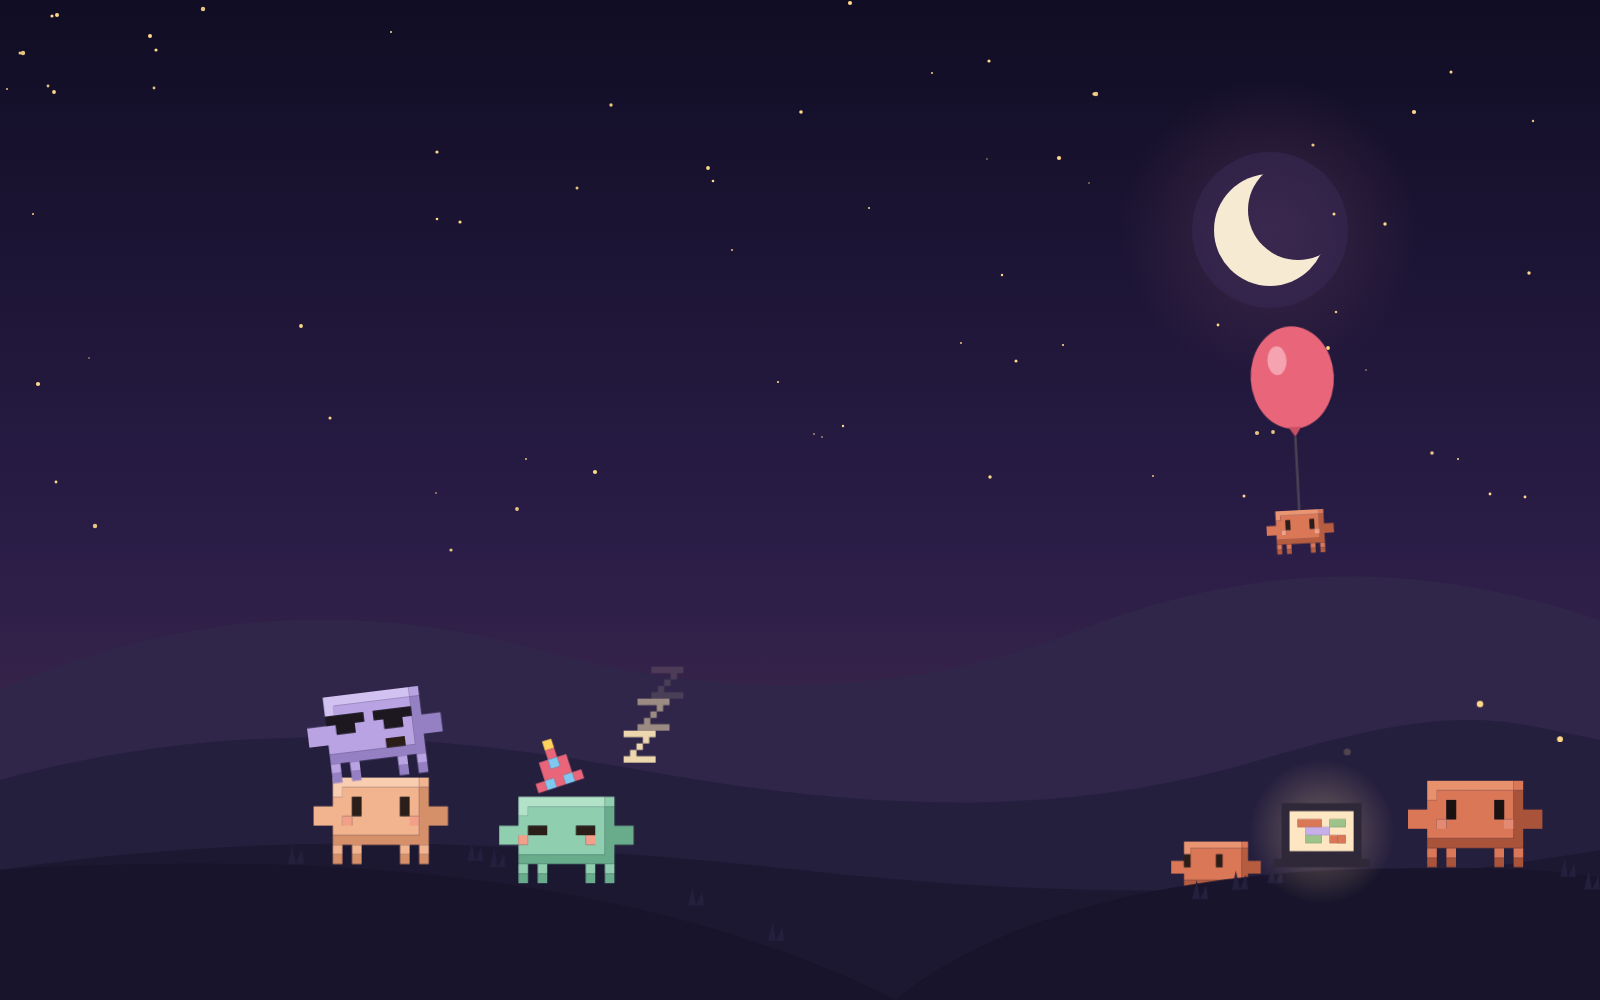
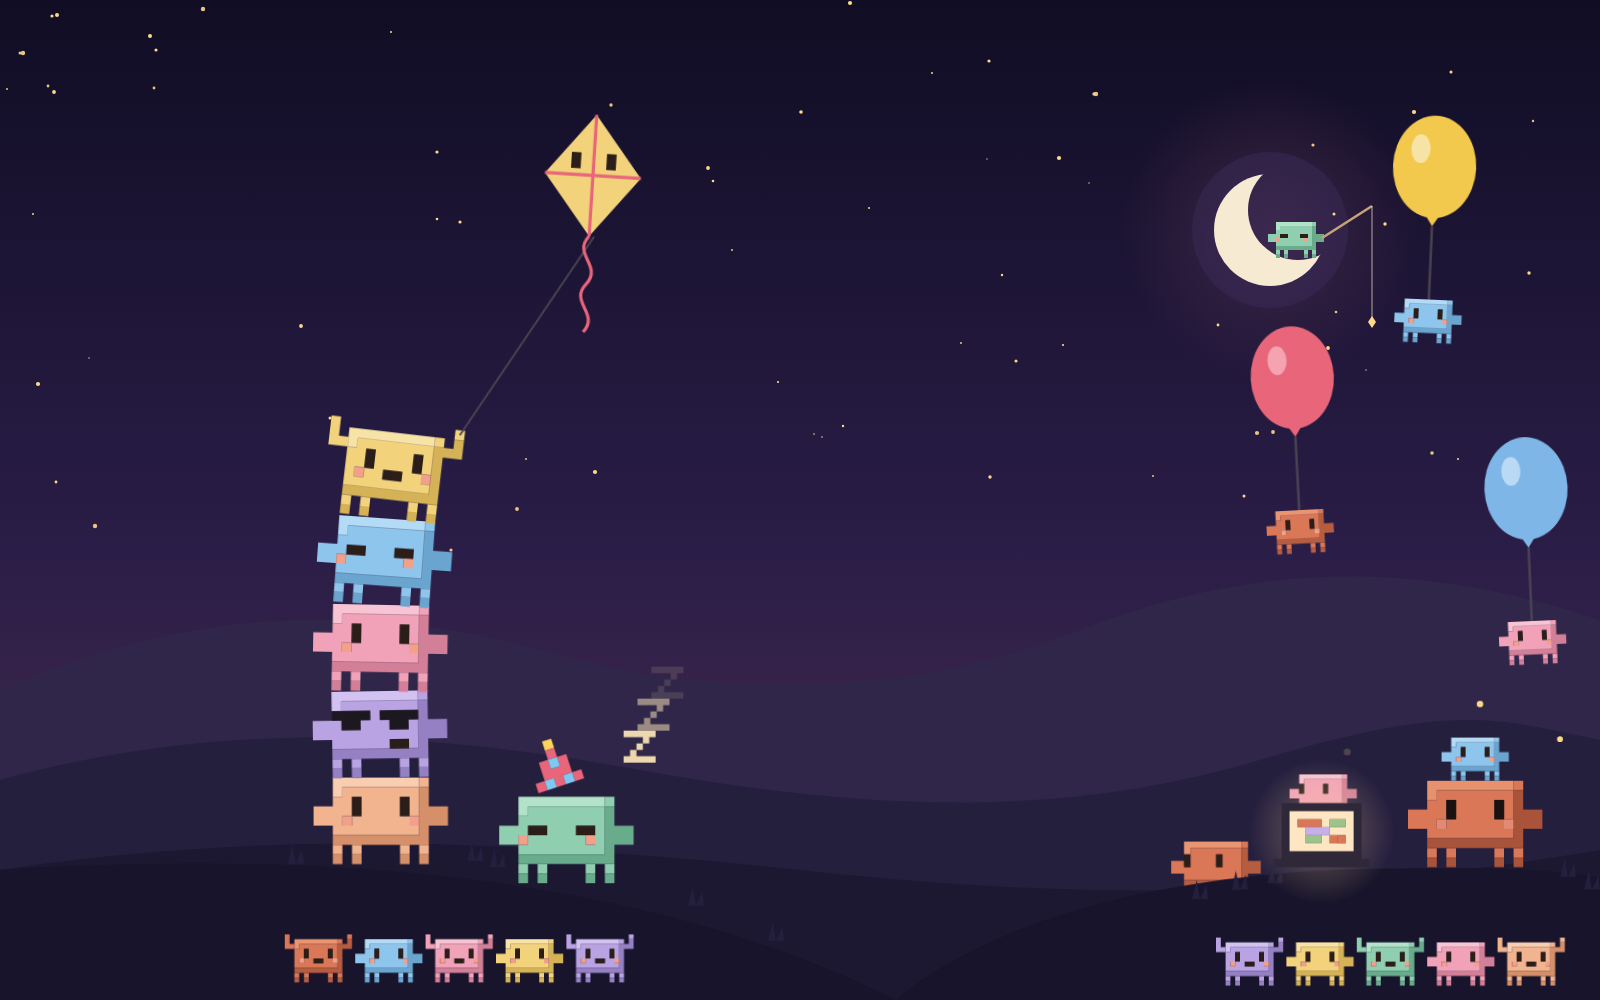
Pixel meadow 0.4.0: a bajillion critters
A five-high wobbling critter tower flying a kite, cheering crowds on
both hills, cloud riders, three balloon riders, a critter on the sun
that fishes off the moon at night, a baby on the main critter's head
and one peeking over the laptop. Sprites merge colour runs to keep the
scene small (about 43k characters).

diff --git a/themes/alif-pixel-meadow/hooks/scene.js b/themes/alif-pixel-meadow/hooks/scene.js
@@ -1,4 +1,5 @@
-// A soft meadow behind the chat, with a little pixel-art Claude critter and its laptop in the bottom-right corner.
+// A soft meadow behind the chat, crowded with goofy pixel critters: one at a laptop, a wobbling tower flying a kite,
+// cheering crowds, cloud riders, balloon riders, a gopher, a critter on the sun (fishing from the moon at night).
 // One SVG serves both modes: colours are classes, and a prefers-color-scheme rule swaps them for the night palette.
 // The ground fills any window (slice); the critter sits in its own nested svg pinned to the bottom-right (meet),
 // so it stays in view on any window shape, clear of the words in the middle.
@@ -66,7 +67,22 @@ const COATS = {
   mint: { O: '#8fcfb0', S: '#68ac8c', H: '#b2e3c9' },
   peach: { O: '#f2b38f', S: '#d58f69', H: '#f9cdb0' },
   orange: { O: '#d97757', S: '#b65d40', H: '#ea9572' },
+  pink: { O: '#f2a2b8', S: '#d27f97', H: '#f8c3d2' },
+  sky: { O: '#8ec5ec', S: '#6aa5cf', H: '#b3dbf5' },
+  butter: { O: '#f2d27a', S: '#d4b255', H: '#f8e3a6' },
 }
+const WAVE = [ // arms up, mouth open
+  'O............O',
+  'O.HHHHHHHHHO.S',
+  'OOHOOOOOOOOSSS',
+  '..OOEOOOOEOS..',
+  '..OOEOOOOEOS..',
+  '..OPOOEEOOPS..',
+  '..OOOOOOOOOS..',
+  '..SSSSSSSSSS..',
+  '..O.O....O.O..',
+  '..S.S....S.S..',
+]
 const DERP = [ // googly eyes and a tongue out
   '..HHHHHHHHHO..',
   '..HOOOOOOOOS..',
@@ -131,11 +147,16 @@ const ZED = ['ZZZZZ', '...Z.', '..Z..', '.Z...', 'ZZZZZ']
 
 function sprite(rows, ox, oy, size, coat = {}) {
   const map = { ...INK, ...coat }, byFill = {}
-  rows.forEach((row, y) => [...row].forEach((ch, x) => {
-    const f = map[ch]
-    if (!f) return
-    ;(byFill[f] ||= []).push(`M${ox + x * size} ${oy + y * size}h${size}v${size}h-${size}z`)
-  }))
+  // runs of one colour in a row become one rectangle, so a crowd stays small
+  rows.forEach((row, y) => {
+    for (let x = 0; x < row.length;) {
+      const f = map[row[x]]
+      let n = 1
+      while (x + n < row.length && row[x + n] === row[x]) n++
+      if (f) (byFill[f] ||= []).push(`M${ox + x * size} ${oy + y * size}h${n * size}v${size}h-${n * size}z`)
+      x += n
+    }
+  })
   return Object.entries(byFill).map(([f, d]) => `<path fill="${f}" d="${d.join('')}"/>`).join('')
 }
 
@@ -173,6 +194,12 @@ ${rules(DAY)}
 .float{animation:float 8s ease-in-out infinite}
 .dangle{transform-box:fill-box;transform-origin:top center;animation:sway 5s ease-in-out infinite}
 .kick{animation:kick 1.2s ease-in-out infinite}
+.cheer{animation:cheer 1.6s ease-in-out infinite}
+.peek2{animation:peek2 5s ease-in-out infinite}
+@keyframes wob{0%,100%{transform:rotate(-3deg)}50%{transform:rotate(3deg)}}
+@keyframes cheer{0%,60%,100%{transform:translateY(0)}30%{transform:translateY(-12px)}}
+@keyframes peek2{0%,40%,100%{transform:translateY(6px)}55%,85%{transform:translateY(0)}}
+@keyframes bobber{0%,100%{transform:translateY(0)}50%{transform:translateY(6px)}}
 @keyframes hop{0%,30%,100%{transform:translateY(0)}55%{transform:translateY(-26px)}}
 @keyframes squish{0%,100%{transform:scale(1,1)}20%{transform:scale(1.12,.85)}35%{transform:scale(.92,1.1)}70%{transform:scale(1,1)}78%{transform:scale(1.1,.88)}}
 @keyframes wobble{0%,100%{transform:rotate(-7deg)}50%{transform:rotate(7deg)}}
@@ -192,8 +219,44 @@ ${rules(DAY)}
 `
 }
 
-function cloud(x, y, s) {
-  return `<g transform="translate(${x} ${y}) scale(${s})"><path class="cloud" d="M0 40a30 30 0 0 1 30-30a42 42 0 0 1 78-6a32 32 0 0 1 52 22a22 22 0 0 1 4 44H8a20 20 0 0 1-8-30z"/></g>`
+function cloud(x, y, s, rider) {
+  const r = rider ? `<g class="cheer" style="animation-delay:${((x % 7) / 5).toFixed(2)}s">${sprite(rider.pose, 50, -12 - rider.pose.length * 3, 3, COATS[rider.coat])}</g>` : ''
+  return `<g transform="translate(${x} ${y}) scale(${s})">${r}<path class="cloud" d="M0 40a30 30 0 0 1 30-30a42 42 0 0 1 78-6a32 32 0 0 1 52 22a22 22 0 0 1 4 44H8a20 20 0 0 1-8-30z"/></g>`
+}
+
+function balloon(x, y, color, light, coat, delay) {
+  return `<g class="float" style="animation-delay:${delay}s"><g transform="translate(${x} ${y})"><g class="dangle" style="animation-delay:${delay}s">
+    <ellipse cx="0" cy="0" rx="26" ry="32" fill="${color}"/><ellipse cx="-9" cy="-11" rx="6" ry="9" fill="${light}"/>
+    <path d="M-4 31h8l-4 6z" fill="${color}"/><path d="M0 37v46" stroke="#4b4352" stroke-width="1.5" fill="none"/>
+    ${sprite(PLAIN, -21, 83, 3, COATS[coat])}
+  </g></g></g>`
+}
+
+// a row of small critters cheering out of step
+function crowd(x0, feet, coats) {
+  return coats.map((c, i) => {
+    const pose = i % 2 ? PLAIN : WAVE
+    return `<g class="cheer" style="animation-delay:${(i * 0.27).toFixed(2)}s">${sprite(pose, x0 + i * 44, feet - pose.length * 3, 3, COATS[c])}</g>`
+  }).join('')
+}
+
+// critters standing on each other's heads, each one wobbling on the one below; the top one flies a kite with a face
+function tower(x, feet, levels) {
+  let y = feet
+  const parts = levels.map(([pose, coat]) => { const top = y - pose.length * 6, p = { pose, coat, top, feet: y }; y = top; return p })
+  const t = parts[parts.length - 1].top
+  let inner = `<path d="M${x + 81} ${t + 3}L${x + 150} ${t - 130}" stroke="#4b4352" stroke-width="1.2" fill="none"/>
+    <g class="sway" style="animation-duration:4s"><g transform="translate(${x + 150} ${t - 206})">
+      <path d="M0 0l30 38l-30 38l-30-38z" fill="#f2d27a"/><path d="M0 0v76M-30 38h60" stroke="#e8657a" stroke-width="2"/>
+      <rect x="-14" y="24" width="6" height="10" fill="#2b1d18"/><rect x="8" y="24" width="6" height="10" fill="#2b1d18"/>
+      <path d="M0 76c-10 12 10 18 0 30c-10 12 10 18 0 30" stroke="#e8657a" stroke-width="2" fill="none"/>
+    </g></g>`
+  for (let i = parts.length - 1; i >= 0; i--) {
+    const p = parts[i], body = sprite(p.pose, x, p.top, 6, COATS[p.coat])
+    inner = i === 0 ? body + inner
+      : `<g style="transform-origin:${x + 42}px ${p.feet}px;animation:wob ${(2.6 + i * 0.35).toFixed(2)}s ease-in-out infinite;animation-delay:${(-i * 0.6).toFixed(1)}s">${body}${inner}</g>`
+  }
+  return inner
 }
 
 export function buildScene() {
@@ -201,8 +264,8 @@ export function buildScene() {
   // clouds, twice across so the drift loops without a seam
   let big = '', small = ''
   for (const off of [0, 1600]) {
-    big += cloud(140 + off, 120, 1.1) + cloud(1050 + off, 90, 0.9)
-    small += cloud(620 + off, 210, 0.7) + cloud(1400 + off, 290, 0.55)
+    big += cloud(140 + off, 120, 1.1, { pose: WAVE, coat: 'pink' }) + cloud(1050 + off, 90, 0.9, { pose: PLAIN, coat: 'sky' })
+    small += cloud(620 + off, 210, 0.7, { pose: DERP, coat: 'butter' }) + cloud(1400 + off, 290, 0.55, { pose: WAVE, coat: 'mint' })
   }
   let stars = ''
   for (let i = 0; i < 70; i++) {
@@ -223,8 +286,7 @@ export function buildScene() {
 <svg x="0" y="0" width="100%" height="100%" viewBox="0 0 1000 625" preserveAspectRatio="xMinYMax meet" overflow="visible">
   <path class="front" d="M-60 625V548C150 530 380 535 560 625z"/>
   ${leftTufts}
-  <g>${sprite(PLAIN, 196, 486, 6, COATS.peach)}</g>
-  <g class="wobble"><g class="kick">${sprite(SHADES, 196, 432, 6, COATS.lilac)}</g></g>
+  ${tower(196, 540, [[PLAIN, 'peach'], [SHADES, 'lilac'], [PLAIN, 'pink'], [SLEEPY, 'sky'], [WAVE, 'butter']])}
   <g class="day"><g class="hop"><g class="squish">
     ${sprite(DERP, 312, 498, 6, COATS.mint)}
     <g transform="rotate(-18 348 492)">${sprite(HAT, 312, 462, 6)}</g>
@@ -234,6 +296,7 @@ export function buildScene() {
     <g transform="rotate(-18 348 492)">${sprite(HAT, 312, 462, 6)}</g>
     ${zeds}
   </g>
+  ${crowd(178, 614, ['orange', 'sky', 'pink', 'butter', 'lilac'])}
   <g class="day"><g class="flutter"><g transform="translate(296 408)">
     <g class="flap"><path fill="#f6a5c0" d="M0 0c-14-12-22 4-10 10c-12 6-4 18 10 6z"/><path fill="#f6a5c0" d="M0 0c14-12 22 4 10 10c12 6 4 18-10 6z"/><rect x="-1" y="-4" width="2" height="16" fill="#4b4352"/></g>
   </g></g></g>
@@ -242,14 +305,13 @@ export function buildScene() {
   const corner = `
 <svg x="0" y="0" width="100%" height="100%" viewBox="0 0 1000 625" preserveAspectRatio="xMaxYMax meet" overflow="visible">
   <defs><radialGradient id="lamp"><stop class="glow" offset="0" stop-opacity=".35"/><stop class="glow" offset="1" stop-opacity="0"/></radialGradient></defs>
-  <g class="float"><g transform="translate(806 236)"><g class="dangle">
-    <ellipse cx="0" cy="0" rx="26" ry="32" fill="#e8657a"/><ellipse cx="-9" cy="-11" rx="6" ry="9" fill="#f5a3b0"/>
-    <path d="M-4 31h8l-4 6z" fill="#c94f63"/><path d="M0 37v46" stroke="#4b4352" stroke-width="1.5" fill="none"/>
-    ${sprite(PLAIN, -21, 83, 3, COATS.orange)}
-  </g></g></g>
+  ${balloon(806, 236, '#e8657a', '#f5a3b0', 'orange', 0)}
+  ${balloon(905, 120, '#f2c94c', '#f8e3a6', 'sky', -3)}
+  ${balloon(958, 318, '#7fb6e8', '#b9d9f5', 'pink', -5.5)}
   <g class="peek">${sprite(PEEKER, 728, 578, 4, COATS.orange)}</g>
   <path class="front" d="M560 625C620 575 730 545 860 543S990 548 1040 556V625z"/>
   ${tufts}
+  <g class="peek2">${sprite(PEEKER, 806, 478, 3, COATS.pink)}</g>
   <g transform="translate(796 502)">
     <g class="night"><circle cx="30" cy="18" r="46" fill="url(#lamp)"/></g>
     ${pixels(LAPTOP, 0, 0, 5)}
@@ -259,7 +321,9 @@ export function buildScene() {
   <g class="bob">
     ${pixels(CRITTER, cx, cy, P, 'OSHP')}
     <g class="blink">${pixels(CRITTER, cx, cy, P, 'E')}</g>
+    ${sprite(PLAIN, 901, 461, 3, COATS.sky)}
   </g>
+  ${crowd(760, 616, ['lilac', 'butter', 'mint', 'pink', 'peach'])}
   <g class="night">
     <circle class="dot fly" cx="842" cy="470" r="2.2"/>
     <circle class="dot fly fly1" cx="975" cy="462" r="1.8"/>
@@ -283,6 +347,10 @@ export function buildScene() {
   <circle class="sun day" cx="1270" cy="230" r="56"/>
   <circle class="sun night" cx="1270" cy="230" r="56" mask="url(#cres)"/>
   <g class="night">${stars}</g>
+  <g class="day"><g class="kick">${sprite(PLAIN, 1242, 140, 4, COATS.mint)}</g></g>
+  <g class="night">${sprite(SLEEPY, 1268, 222, 4, COATS.mint)}
+    <path d="M1322 238L1372 206" stroke="#c7a27a" stroke-width="2.5"/><path d="M1372 206V318" stroke="#f6ead3" stroke-width="1" opacity=".7"/>
+    <g style="animation:bobber 3s ease-in-out infinite"><path d="M1372 316l4 6l-4 6l-4-6z" fill="#ffd98a"/></g></g>
   <g class="day" opacity=".85"><g class="drift">${big}</g><g class="drift2">${small}</g></g>
   <path class="far" d="M0 690C180 610 360 600 540 650S900 700 1080 630S1420 560 1600 620V1000H0z"/>
   <path class="mid" d="M0 780C220 720 420 730 640 770S1060 820 1260 760S1500 720 1600 740V1000H0z"/>

diff --git a/README.md b/README.md
@@ -10,7 +10,7 @@ My Claude themes, all in one place. Each theme is its own plugin in `themes/`, a
 | **alif-beach** | A beach. Warm sand paper and deep sea-teal ink by day, a moonlit shoreline by night, with a faint sun, drifting waves, a small boat and a palm at the right edge behind the chat. |
 | **alif-kl-day** | Pixel-art Kuala Lumpur by day: a bright blue sky, pixel clouds and sun, a dense skyline (Menara KL, Petronas Twin Towers with their skybridge, Merdeka Maybank, The Exchange 106) and a grass strip along the bottom. Light mode only. |
 | **alif-kl-night** | The same skyline at night: stars, a crescent moon and twinkling lit windows. Dark mode only. |
-| **alif-pixel-meadow** | A soft meadow full of goofy pixel critters: one typing at a glowing laptop, a gopher that peeks out of the hill, a cool lilac critter in sunglasses wobbling on a friend’s head, a mint derp in a party hat with its tongue out (it falls asleep at night), and a tiny one floating by on a balloon. Peach morning and drifting clouds by day, plum starry night, moon and fireflies by dark. Light and dark. |
+| **alif-pixel-meadow** | A soft meadow packed with a bajillion goofy pixel critters: a five-high critter tower wobbling while the top one flies a kite with a face, a mint derp in a party hat (asleep at night), cheering crowds on both hills, critters riding the clouds and three balloons, one sitting on the sun (fishing off the moon at night), a gopher, a baby riding on the main critter’s head, one peeking over the laptop, and the original typing away. Peach morning by day, plum starry night by dark. Light and dark. |
 
 ![alif-pixel-meadow by day](previews/pixel-meadow-day.png)
 ![alif-pixel-meadow by night](previews/pixel-meadow-night.png)
